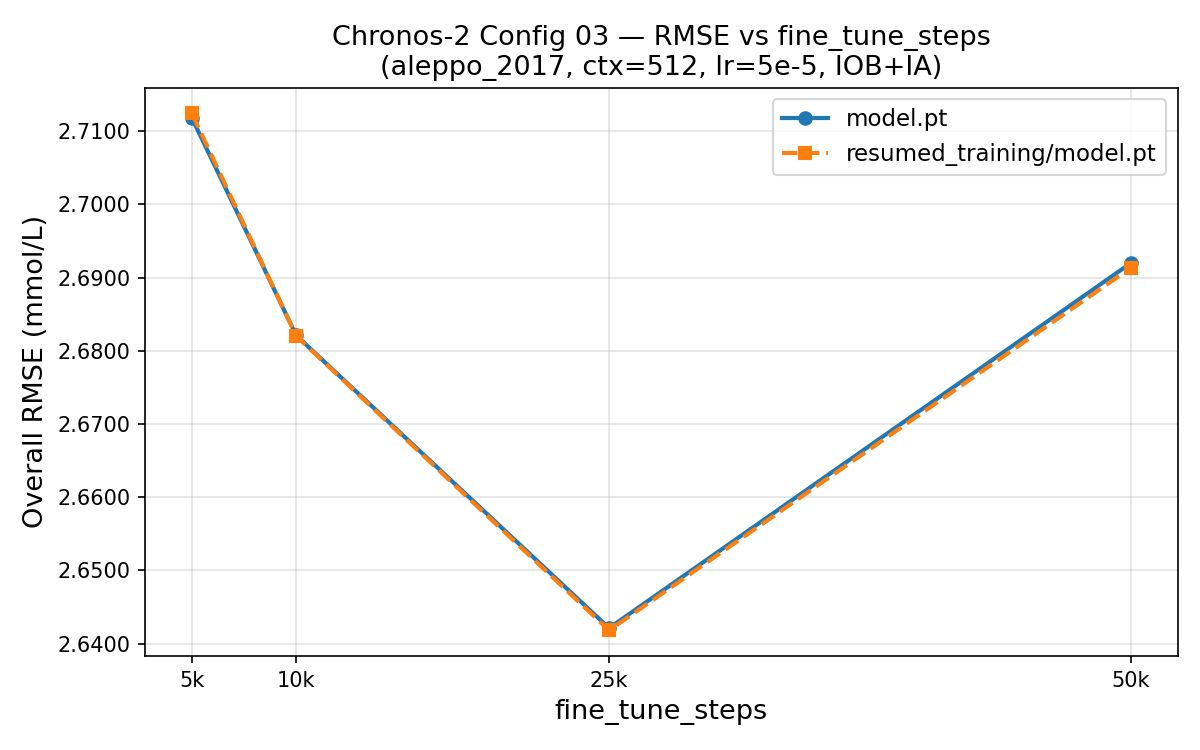
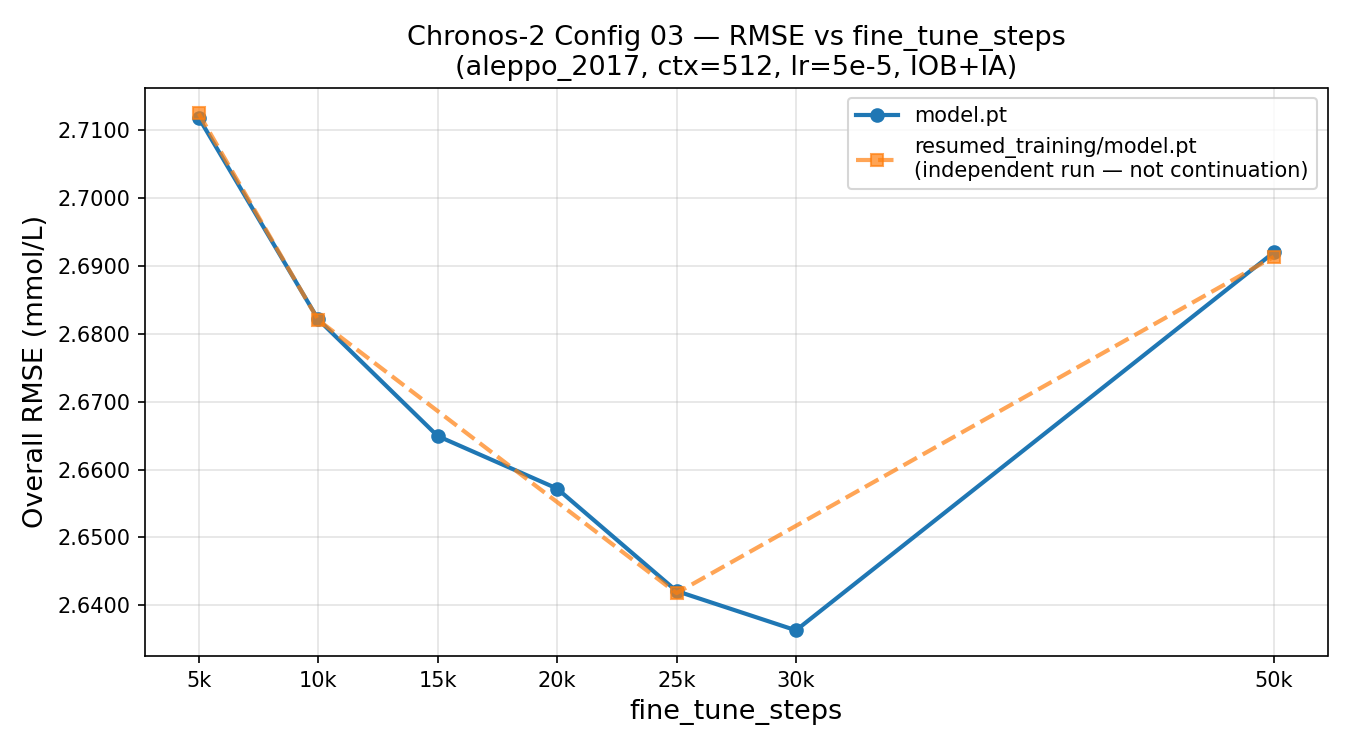
Experiment run updates.

diff --git a/scratch.md b/scratch.md
@@ -36,7 +36,7 @@ python scripts/experiments/nocturnal_hypo_eval.py \
 # 03 — IOB + insulin_availability (ctx=512, lr=5e-5)
 python scripts/experiments/nocturnal_hypo_eval.py \
     --model chronos2 \
-    --dataset aleppo_2017 \
+    --dataset brown_2019 \
     --config-dir configs/data/holdout_10pct \
     --model-config configs/models/chronos2/03_bg_iob_ia_high_lr.yaml \
     --context-length 512 \
@@ -44,7 +44,7 @@ python scripts/experiments/nocturnal_hypo_eval.py \
     --covariate-cols iob insulin_availability \
     --cuda-device 0 \
     --checkpoint trained_models/artifacts/chronos2/2026-03-12_23:07_RID20260312_230758_1217900_holdout_workflow/model.pt \
-    --output-dir experiments/nocturnal_forecasting/512ctx_96fh/chronos2/2026-03-15_2303_recheck_03_modelpt_aleppo_2017_finetuned
+    --output-dir experiments/nocturnal_forecasting/512ctx_96fh/chronos2/2026-03-15_2303_recheck_03_modelpt_brown_2019_finetuned
 
 python scripts/experiments/nocturnal_hypo_eval.py \
     --model chronos2 \
@@ -233,7 +233,7 @@ python scripts/examples/example_holdout_generic_workflow.py \
     --output-dir trained_models/artifacts/chronos2/sweep_03_steps20000_holdout_workflow \
     --skip-steps 7
 
-python scripts/example/example_holdouts_generic_workflow.py \
+python scripts/examples/example_holdout_generic_workflow.py \
     --model-type chronos2 \
     --datasets aleppo_2017 brown_2019 lynch_2022 \
     --config-dir configs/data/holdout_10pct \
@@ -247,7 +247,7 @@ python scripts/example/example_holdouts_generic_workflow.py \
 # 15k
 python scripts/experiments/nocturnal_hypo_eval.py \
     --model chronos2 \
-    --dataset aleppo_2017 \
+    --dataset brown_2019 \
     --config-dir configs/data/holdout_10pct \
     --model-config configs/models/chronos2/_tmp_03_steps_15000.yaml \
     --context-length 512 \
@@ -255,12 +255,12 @@ python scripts/experiments/nocturnal_hypo_eval.py \
     --covariate-cols iob insulin_availability \
     --cuda-device 0 \
     --checkpoint trained_models/artifacts/chronos2/sweep_03_steps15000_holdout_workflow/model.pt \
-    --output-dir experiments/nocturnal_forecasting/512ctx_96fh/chronos2/2026-03-16_1000_sweep03_15k_modelpt_aleppo_2017_finetuned
+    --output-dir experiments/nocturnal_forecasting/512ctx_96fh/chronos2/2026-03-16_1000_sweep03_15k_modelpt_brown_2019_finetuned
 
 # 20k
 python scripts/experiments/nocturnal_hypo_eval.py \
     --model chronos2 \
-    --dataset aleppo_2017 \
+    --dataset brown_2019 \
     --config-dir configs/data/holdout_10pct \
     --model-config configs/models/chronos2/_tmp_03_steps_20000.yaml \
     --context-length 512 \
@@ -268,12 +268,12 @@ python scripts/experiments/nocturnal_hypo_eval.py \
     --covariate-cols iob insulin_availability \
     --cuda-device 0 \
     --checkpoint trained_models/artifacts/chronos2/sweep_03_steps20000_holdout_workflow/model.pt \
-    --output-dir experiments/nocturnal_forecasting/512ctx_96fh/chronos2/2026-03-16_1001_sweep03_20k_modelpt_aleppo_2017_finetuned
+    --output-dir experiments/nocturnal_forecasting/512ctx_96fh/chronos2/2026-03-16_1001_sweep03_20k_modelpt_brown_2019_finetuned
 
 # 30k
 python scripts/experiments/nocturnal_hypo_eval.py \
     --model chronos2 \
-    --dataset aleppo_2017 \
+    --dataset brown_2019 \
     --config-dir configs/data/holdout_10pct \
     --model-config configs/models/chronos2/_tmp_03_steps_30000.yaml \
     --context-length 512 \
@@ -281,4 +281,4 @@ python scripts/experiments/nocturnal_hypo_eval.py \
     --covariate-cols iob insulin_availability \
     --cuda-device 0 \
     --checkpoint trained_models/artifacts/chronos2/sweep_03_steps30000_holdout_workflow/model.pt \
-    --output-dir experiments/nocturnal_forecasting/512ctx_96fh/chronos2/2026-03-16_1002_sweep03_30k_modelpt_aleppo_2017_finetuned
+    --output-dir experiments/nocturnal_forecasting/512ctx_96fh/chronos2/2026-03-16_1002_sweep03_30k_modelpt_brown_2019_finetuned
